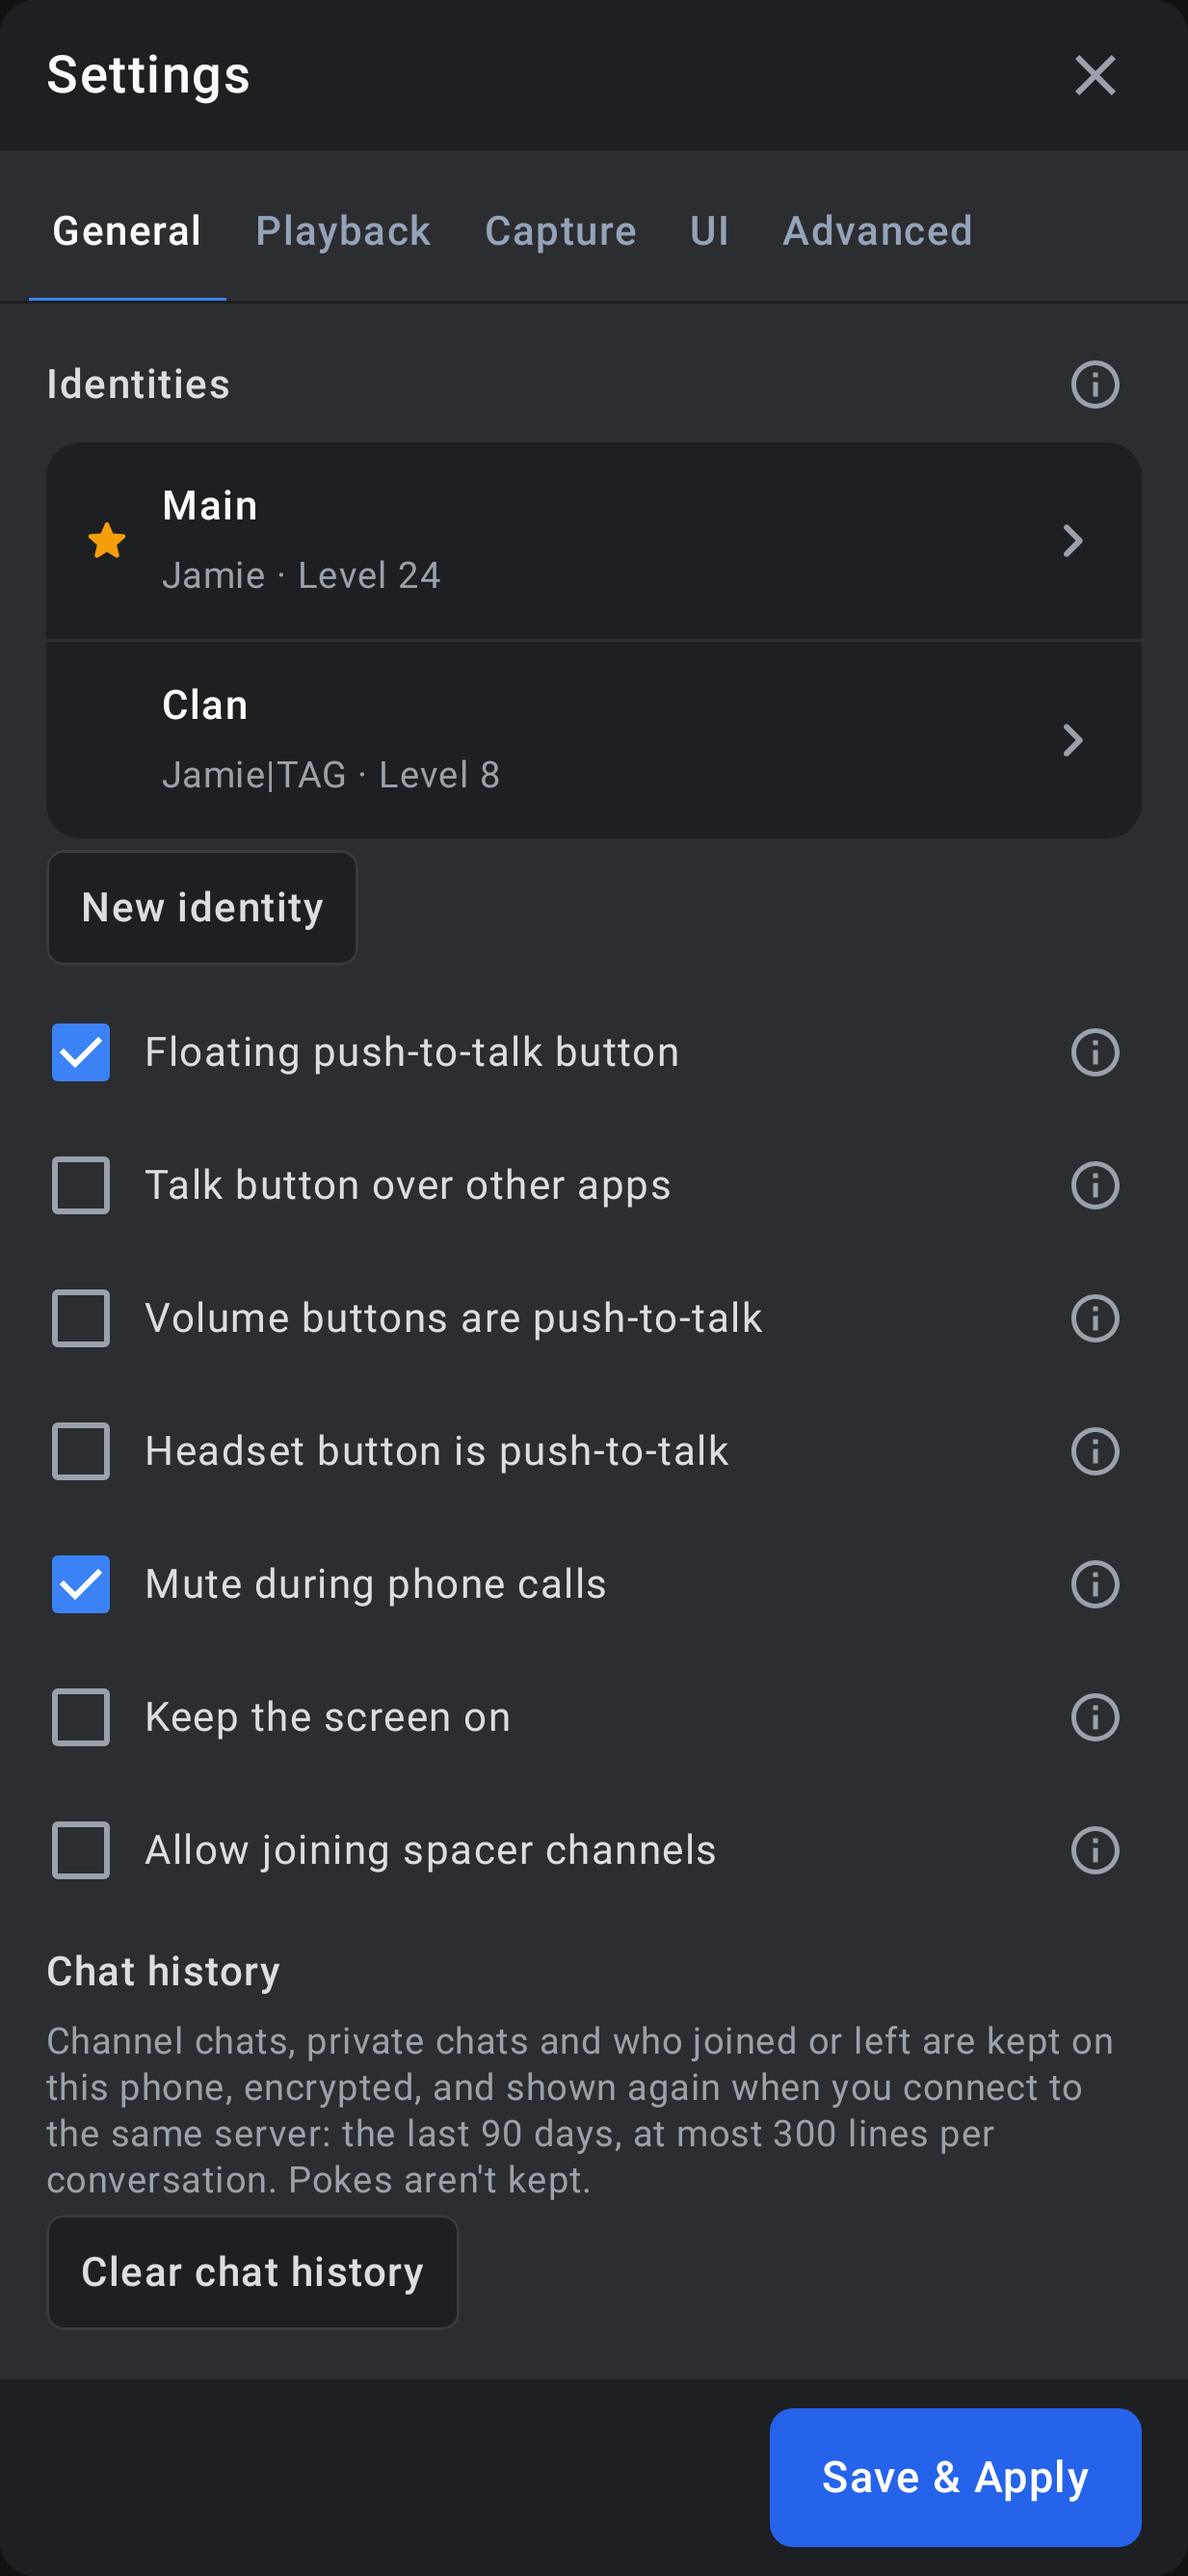
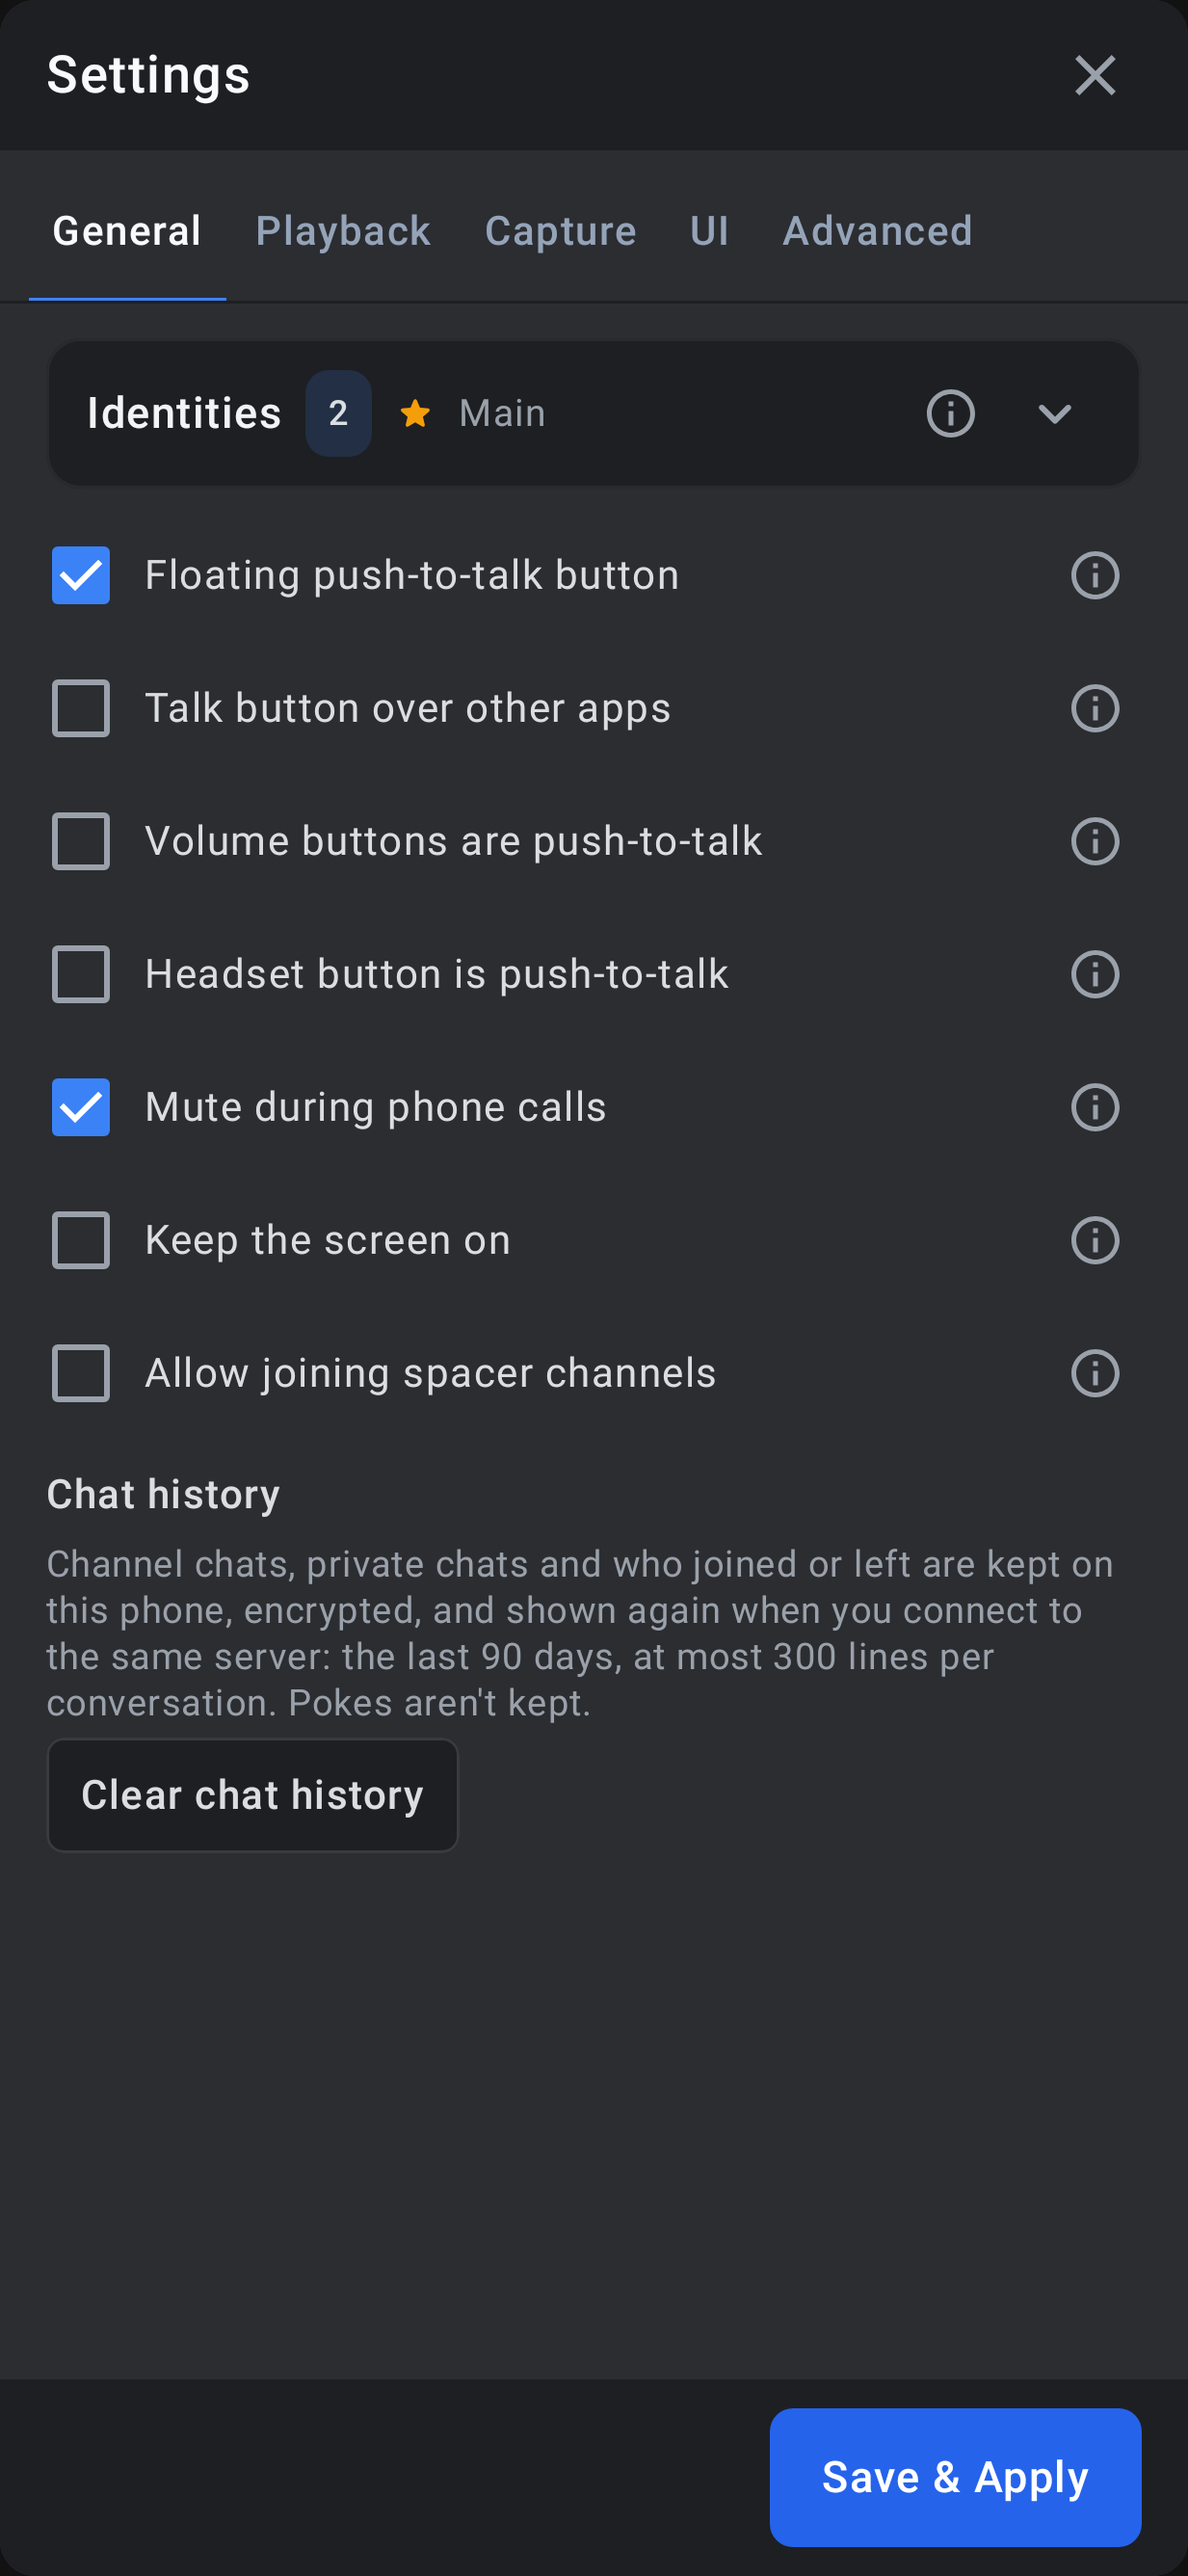
Identities: a box that folds, one line each
Settings › General's identities fold as the favourites' folders do: the bar
says how many there are and which one is the default, and a tap opens it.
Open, each identity is one line (name, nickname and level), with New
identity at the end.

diff --git a/app/src/main/kotlin/io/github/korppujauho/pocketts/ui/IdentityViews.kt b/app/src/main/kotlin/io/github/korppujauho/pocketts/ui/IdentityViews.kt
@@ -1,6 +1,12 @@
 package io.github.korppujauho.pocketts.ui
 
 import androidx.compose.foundation.background
+import androidx.compose.ui.text.style.TextOverflow
+import androidx.compose.ui.semantics.semantics
+import androidx.compose.ui.semantics.heading
+import androidx.compose.material.icons.rounded.ExpandLess
+import androidx.compose.foundation.layout.heightIn
+import androidx.compose.foundation.border
 import androidx.compose.foundation.clickable
 import androidx.compose.foundation.layout.Arrangement
 import androidx.compose.foundation.layout.Box
@@ -57,29 +63,73 @@ data class IdentityInfo(
     val label: String get() = name.ifBlank { nickname }
 }
 
-/** The identities in a card, one row each (the default one starred); a row opens that identity. */
+/**
+ * The identities in a box that folds as the favourites' folders do: its bar says how many there are and which is the
+ * default, and a tap on it opens or shuts it. Open, one row each (the default starred; a tap opens it), and New
+ * identity at the end. [about] is the ⓘ at the bar's end.
+ */
 @Composable
-internal fun IdentityList(identities: List<IdentityInfo>, onOpen: (IdentityInfo) -> Unit) {
-    Column(Modifier.fillMaxWidth().clip(RoundedCornerShape(12.dp)).background(Ts.card)) {
-        identities.forEachIndexed { i, e ->
-            if (i > 0) Box(Modifier.fillMaxWidth().height(1.dp).background(Color(0x14FFFFFF)))
+internal fun IdentityList(
+    identities: List<IdentityInfo>, open: Boolean, onToggle: () -> Unit, onOpen: (IdentityInfo) -> Unit, onNew: () -> Unit,
+    about: @Composable () -> Unit = {},
+) {
+    Column(
+        Modifier.fillMaxWidth().clip(RoundedCornerShape(12.dp)).background(Ts.panel)
+            .border(1.dp, Ts.hairline, RoundedCornerShape(12.dp)),
+    ) {
+        Row(
+            Modifier.fillMaxWidth().background(Ts.card)
+                .clickable(onClickLabel = stringResource(if (open) R.string.folder_fold else R.string.folder_unfold), onClick = onToggle)
+                .semantics { heading() }
+                .padding(start = 14.dp, end = 4.dp, top = 4.dp, bottom = 4.dp).heightIn(min = 44.dp),
+            verticalAlignment = Alignment.CenterVertically, horizontalArrangement = Arrangement.spacedBy(8.dp),
+        ) {
+            Text(stringResource(R.string.identities_title), color = Ts.title, fontWeight = FontWeight.SemiBold, fontSize = 15.sp)
+            ValueBadge(identities.size.toString())
+            // Folded, the bar still says which one connects
+            val default = identities.firstOrNull { it.isDefault }
+            if (!open && default != null) {
+                Icon(Icons.Rounded.Star, contentDescription = stringResource(R.string.identity_default), tint = Ts.amber, modifier = Modifier.size(14.dp))
+                Text(default.label, color = Ts.muted, fontSize = 13.sp, maxLines = 1, overflow = TextOverflow.Ellipsis, modifier = Modifier.weight(1f))
+            } else {
+                Spacer(Modifier.weight(1f))
+            }
+            about()
+            Icon(if (open) Icons.Rounded.ExpandLess else Icons.Rounded.ExpandMore, contentDescription = null, tint = Ts.muted)
+            Spacer(Modifier.size(6.dp))
+        }
+        if (!open) return@Column
+        identities.forEach { e ->
+            Box(Modifier.fillMaxWidth().height(1.dp).background(Color(0x14FFFFFF)))
             Row(
-                Modifier.fillMaxWidth().clickable(role = Role.Button) { onOpen(e) }.padding(horizontal = 12.dp, vertical = 10.dp),
-                verticalAlignment = Alignment.CenterVertically, horizontalArrangement = Arrangement.spacedBy(10.dp),
+                Modifier.fillMaxWidth().clickable(role = Role.Button) { onOpen(e) }.padding(start = 14.dp, end = 10.dp).heightIn(min = 44.dp),
+                verticalAlignment = Alignment.CenterVertically, horizontalArrangement = Arrangement.spacedBy(8.dp),
             ) {
                 if (e.isDefault) {
-                    Icon(Icons.Rounded.Star, contentDescription = stringResource(R.string.identity_default), tint = Ts.amber, modifier = Modifier.size(18.dp))
+                    Icon(Icons.Rounded.Star, contentDescription = stringResource(R.string.identity_default), tint = Ts.amber, modifier = Modifier.size(16.dp))
                 } else {
-                    Spacer(Modifier.size(18.dp))
+                    Spacer(Modifier.size(16.dp))
                 }
-                Column(Modifier.weight(1f)) {
-                    Text(e.label, color = Ts.bright, fontWeight = FontWeight.SemiBold, fontSize = 14.sp, maxLines = 1)
+                // One line: the name, then the nickname and level after it (both shortened when long)
+                Row(Modifier.weight(1f), verticalAlignment = Alignment.CenterVertically, horizontalArrangement = Arrangement.spacedBy(8.dp)) {
+                    Text(
+                        e.label, color = Ts.bright, fontWeight = FontWeight.SemiBold, fontSize = 14.sp, maxLines = 1, overflow = TextOverflow.Ellipsis,
+                        modifier = Modifier.weight(1f, fill = false),
+                    )
                     val level = e.level?.let { stringResource(R.string.identity_level, it) }
                     val line = listOfNotNull(e.nickname.ifBlank { null }.takeIf { e.name.isNotBlank() }, level).joinToString(" · ")
-                    if (line.isNotEmpty()) Text(line, color = Ts.muted, fontSize = 12.5.sp, maxLines = 1)
+                    Text(line, color = Ts.muted, fontSize = 12.5.sp, maxLines = 1, overflow = TextOverflow.Ellipsis, modifier = Modifier.weight(1f, fill = false))
                 }
-                Icon(Icons.AutoMirrored.Rounded.KeyboardArrowRight, contentDescription = null, tint = Ts.muted)
+                Icon(Icons.AutoMirrored.Rounded.KeyboardArrowRight, contentDescription = null, tint = Ts.muted, modifier = Modifier.size(20.dp))
             }
+        }
+        Box(Modifier.fillMaxWidth().height(1.dp).background(Color(0x14FFFFFF)))
+        Row(
+            Modifier.fillMaxWidth().clickable(role = Role.Button, onClick = onNew).padding(start = 14.dp, end = 10.dp).heightIn(min = 44.dp),
+            verticalAlignment = Alignment.CenterVertically, horizontalArrangement = Arrangement.spacedBy(8.dp),
+        ) {
+            Icon(Icons.Rounded.PersonAdd, contentDescription = null, tint = Ts.accent, modifier = Modifier.size(16.dp))
+            Text(stringResource(R.string.identity_new), color = Ts.accent, fontWeight = FontWeight.SemiBold, fontSize = 14.sp)
         }
     }
 }

diff --git a/app/src/main/kotlin/io/github/korppujauho/pocketts/ui/SettingsDialog.kt b/app/src/main/kotlin/io/github/korppujauho/pocketts/ui/SettingsDialog.kt
@@ -335,9 +335,15 @@ private fun Identities(actions: SettingsActions) {
     var list by remember { mutableStateOf(actions.identities()) }
     var open by remember { mutableStateOf<String?>(null) }
     var adding by remember { mutableStateOf(false) }
-    Group(stringResource(R.string.identities_title), info = stringResource(R.string.identities_desc)) {
-        IdentityList(list) { open = it.key }
-        SecondaryButton(stringResource(R.string.identity_new)) { adding = true }
+    // Folded until opened: most people have one identity and seldom change it
+    var unfolded by rememberSaveable { mutableStateOf(false) }
+    var about by rememberSaveable { mutableStateOf(false) }
+    val title = stringResource(R.string.identities_title)
+    Column(verticalArrangement = Arrangement.spacedBy(4.dp)) {
+        IdentityList(list, unfolded, { unfolded = !unfolded }, { open = it.key }, { adding = true }) {
+            InfoButton(title, about) { about = !about }
+        }
+        if (about) Desc(stringResource(R.string.identities_desc))
     }
     open?.let { key ->
         list.firstOrNull { it.key == key }?.let { e ->

diff --git a/app/src/test/kotlin/io/github/korppujauho/pocketts/IdentityScreensTest.kt b/app/src/test/kotlin/io/github/korppujauho/pocketts/IdentityScreensTest.kt
@@ -51,8 +51,13 @@ class IdentityScreensTest {
     @Test
     fun generalListsThemAndOneOpens() {
         rule.setContent { PocketTsTheme { SettingsContent(VoiceSettings(), settings(Example.identities), {}, modifier = Modifier.fillMaxSize()) } }
+        // Folded at first: how many, and which one connects
         rule.onNodeWithText("Identities").assertIsDisplayed()
+        rule.onNodeWithText("Main").assertIsDisplayed()
+        rule.onNodeWithText("Clan").assertDoesNotExist()
+        rule.onNodeWithText("Identities").performClick()
         rule.onNodeWithText("Jamie · Level 24").assertIsDisplayed()
+        rule.onNodeWithText("New identity").assertIsDisplayed()
         rule.onNodeWithContentDescription("Default").assertIsDisplayed()
         rule.onNodeWithText("Clan").performClick()
         rule.waitForIdle()

diff --git a/app/src/test/kotlin/io/github/korppujauho/pocketts/ScreenshotTest.kt b/app/src/test/kotlin/io/github/korppujauho/pocketts/ScreenshotTest.kt
@@ -340,6 +340,14 @@ class ScreenshotTest {
         SettingsContent(VoiceSettings(), Example.withIdentities, {}, startTab = 0, modifier = Modifier.fillMaxSize())
     }
 
+    /** Settings › General's identities opened (folded at first). */
+    @Test
+    fun identitiesOpen() = shot("settings-identities") {
+        androidx.compose.foundation.layout.Column(Modifier.fillMaxSize().background(io.github.korppujauho.pocketts.ui.Ts.panel).padding(16.dp)) {
+            io.github.korppujauho.pocketts.ui.IdentityList(Example.identities, open = true, onToggle = {}, onOpen = {}, onNew = {})
+        }
+    }
+
     @Test
     fun identityPopup() = popup("popup-identity") {
         io.github.korppujauho.pocketts.ui.IdentityDialog(Example.identities[1], Example.identities, Example.withIdentities) {}
